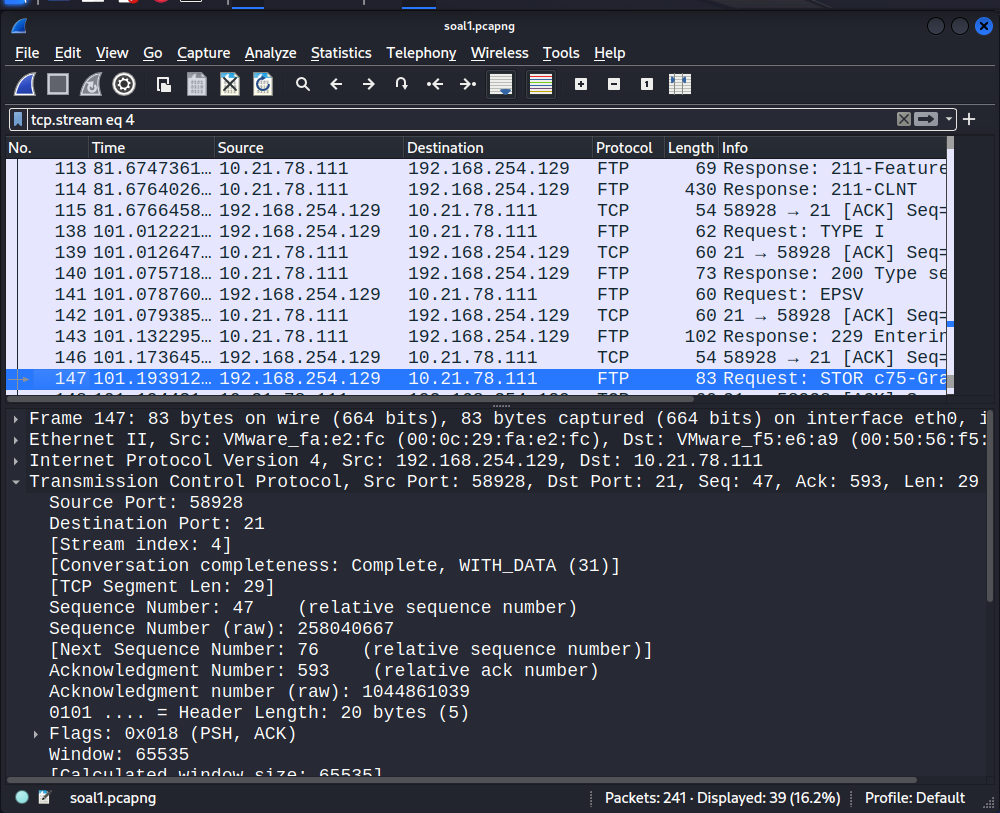
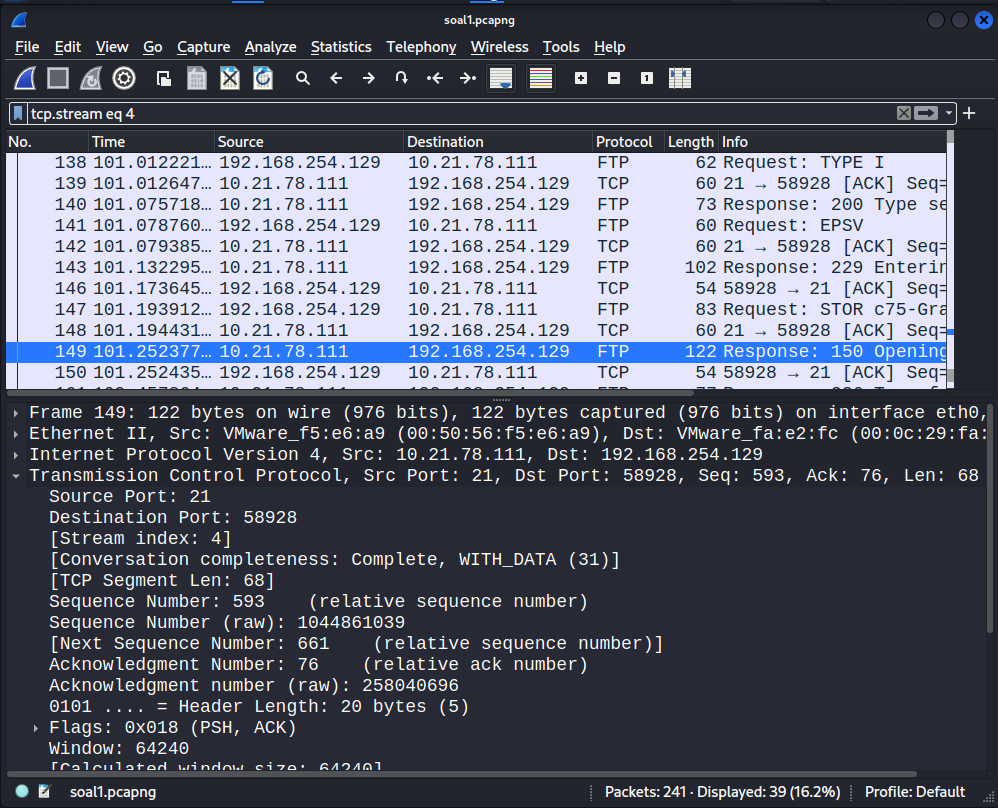
fix: 1-response

Changed region(s): [[0.0, 0.0, 1.0, 0.9901], [0.5902, 0.9592, 0.9629, 0.9901], [0.9629, 0.9901, 1.0, 1.0]]

diff --git a/modul-01/README.md b/modul-01/README.md
@@ -38,7 +38,7 @@ Pada ncat yang diberikan terdapat beberapa sub soal:
 
 ### _c. Berapakah sequence number (raw) pada packet yang menunjukkan response dari aktivitas tersebut?_
 
-* Dengan menggunakan `follow tcp stream`, kita akan diarahkan ke paket respons secara langsung
+* lakukan `follow tcp stream`, kemudian pilih paket response tepat setelah paket STOR
 
 ![1-response](src/1-response.png)
 
